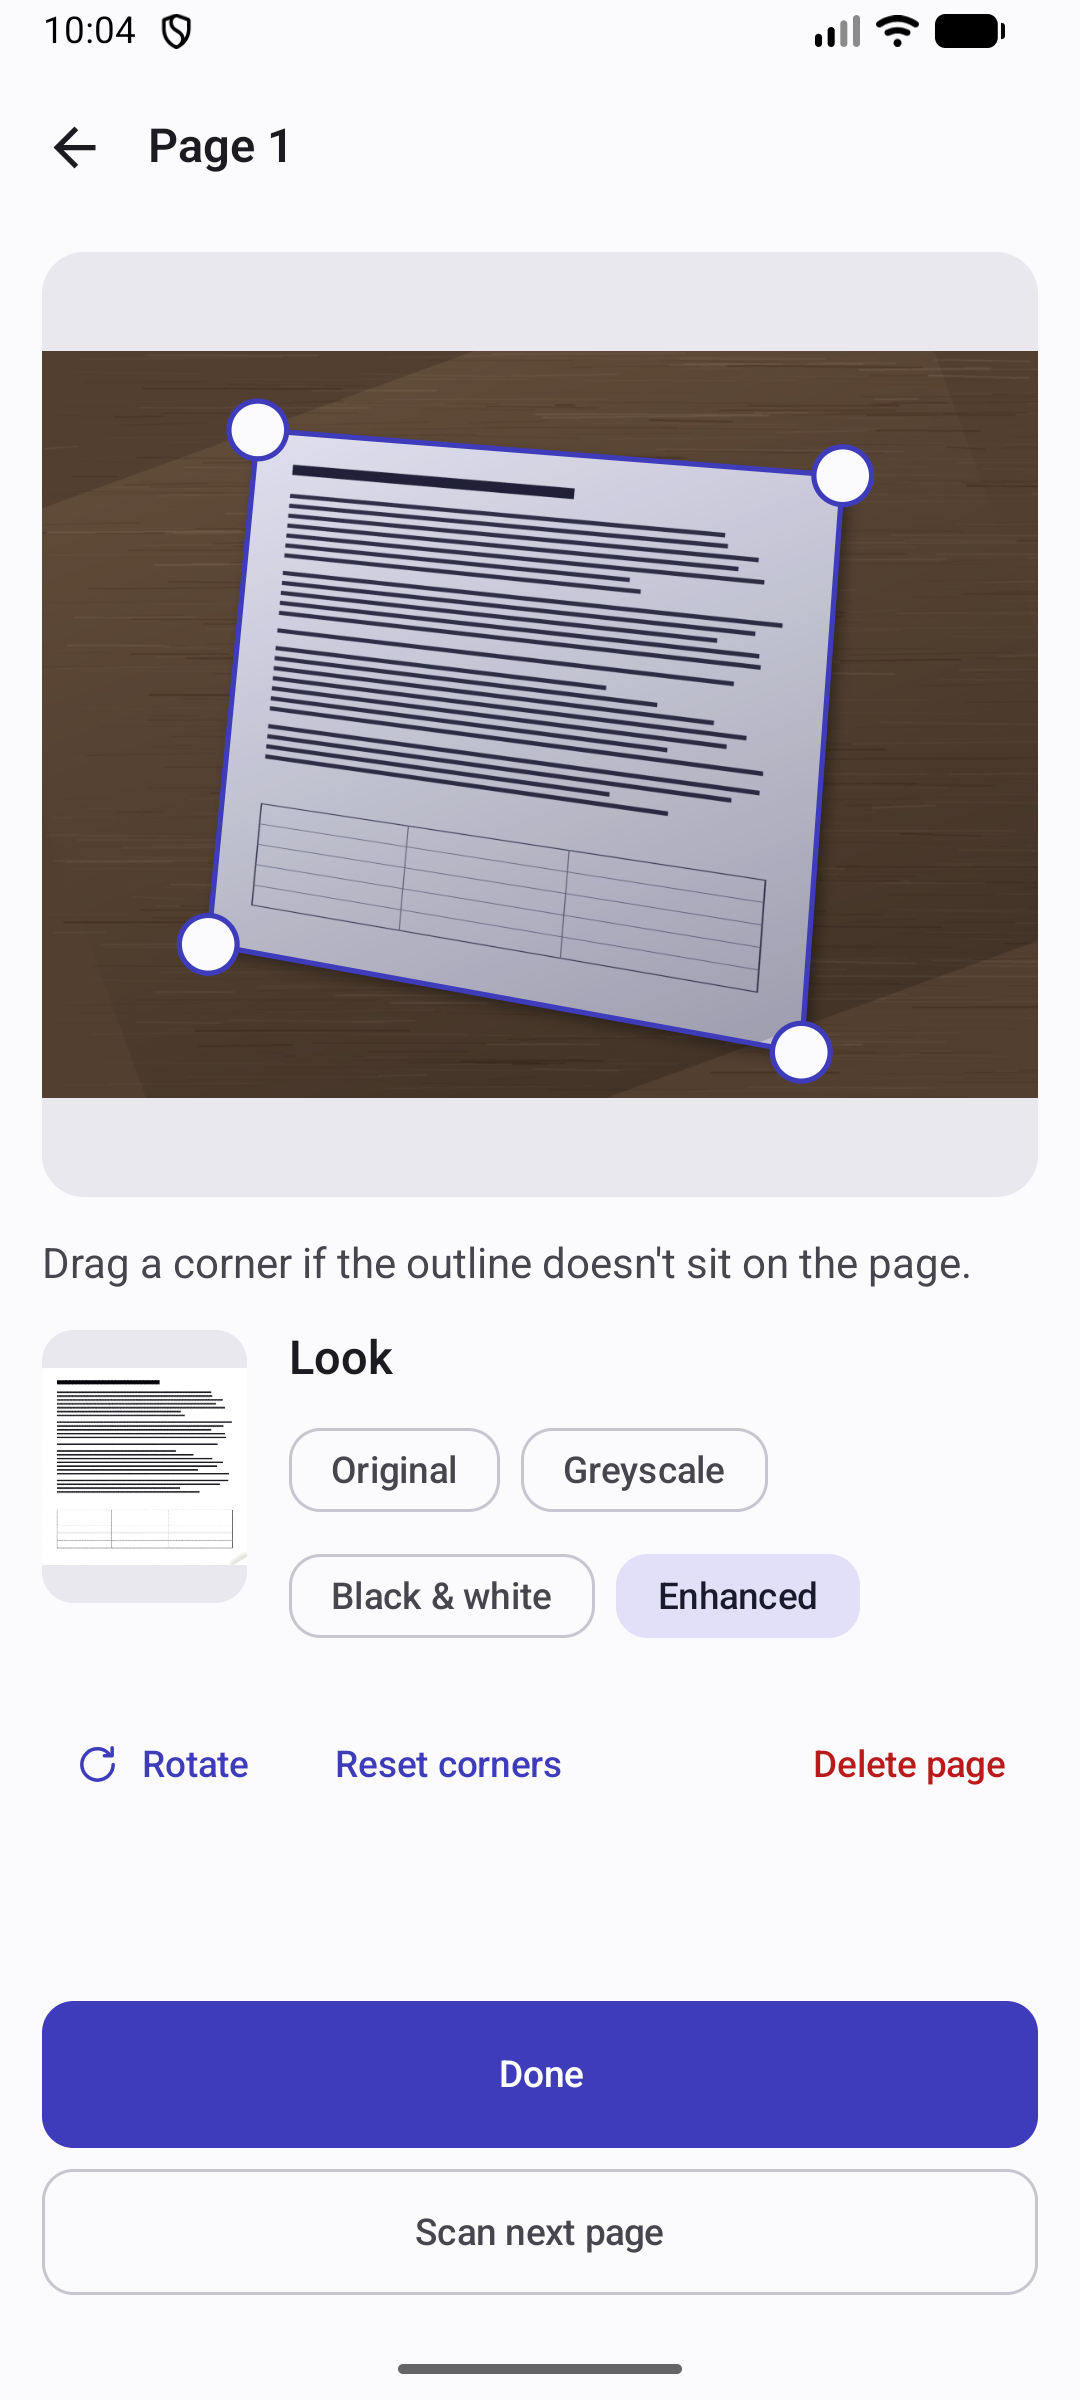
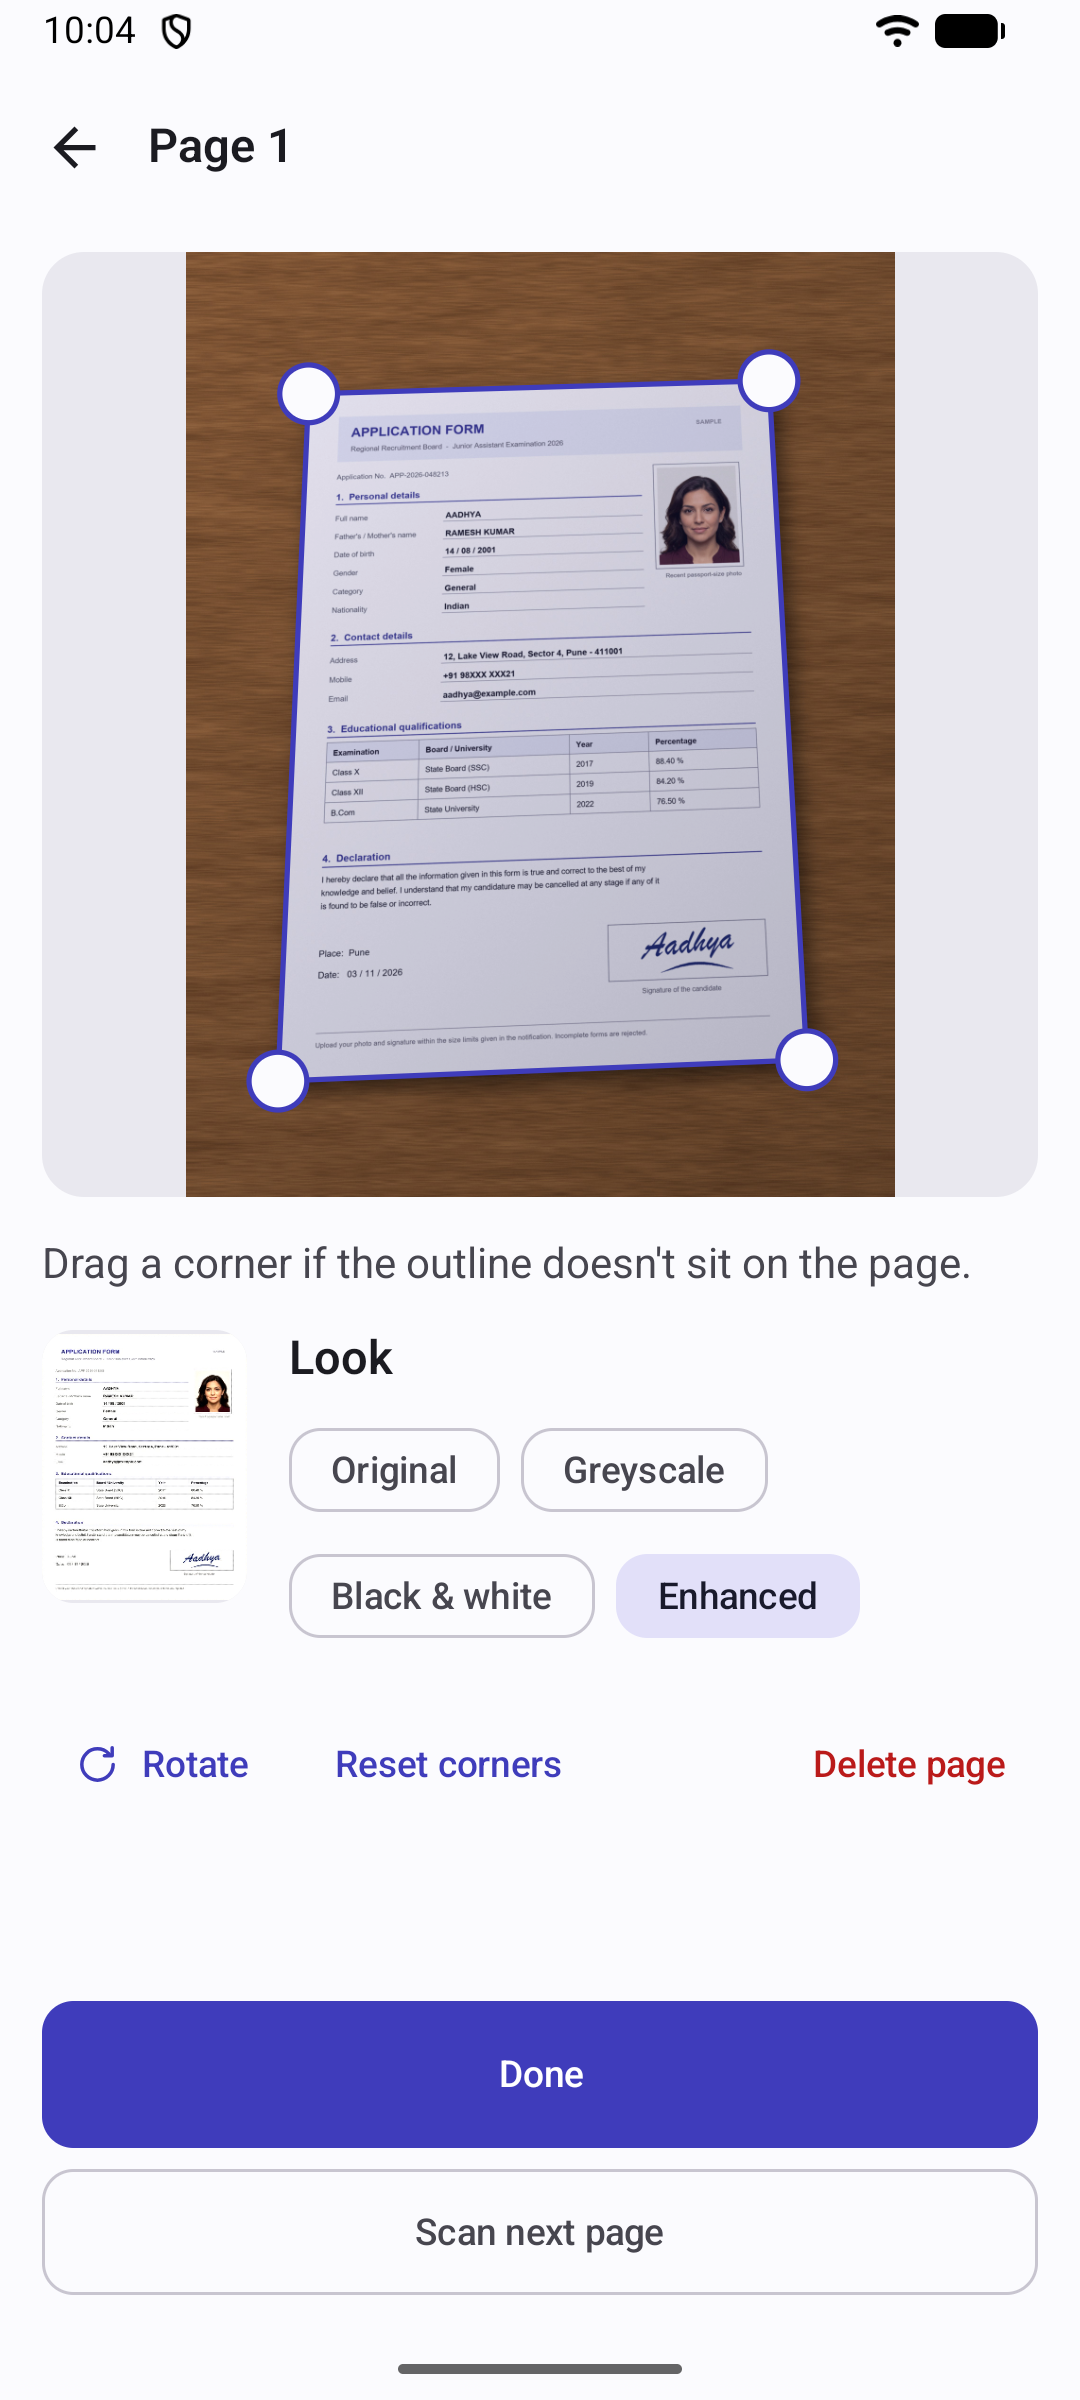
Retake store screenshots 4-7 with invented content
The signature screenshot showed what looked like a real signature, and
the scan and PDF screenshots used plain dummy pages. Now:

- 4: the Gemini portrait from screenshots 2-3, background removed
- 5: "Aadhya" in pen on ruled paper, lifted to 19 KB on white
- 6: a fictional application form for "Aadhya" photographed on a desk,
  edges found, Enhanced look
- 7: that form as a real text PDF, 299 KB down to 34 KB with the text
  still sharp

Every name, address and signature is made up; store-listing.md says so.

Changed region(s): [[0.0306, 0.0938, 0.9778, 0.5], [0.0306, 0.5625, 0.2139, 0.6562], [0.7639, 0.0, 0.7944, 0.0312]]

diff --git a/docs/store-listing.md b/docs/store-listing.md
@@ -96,15 +96,22 @@ indigo and white.
 
 Captured versions of all eight are in `docs/screenshots/`.
 
-The face in screenshot 4 is "Smiling in a cornfield" by Allef Vinicius, from Unsplash by way of
-Wikimedia Commons, under CC0: no copyright, and no named person whose likeness the listing would be
-trading on. Any replacement needs both of those, not only a free licence — a store listing is
-advertising, which is where a photo of a recognisable person causes trouble even when the photograph
-itself is free to use.
+Everything shown in screenshots 2–7 (retaken November 2026) is invented for FormKit:
 
-Screenshots 2 and 3 show a portrait the owner generated with Gemini for FormKit (November 2026),
-cropped to drop Gemini's corner mark: an AI image of nobody real, which no one else holds rights in.
-They replaced captures that used NASA's official
-portrait of Kalpana Chawla: public domain as a photograph, but a famous person's face selling an app.
-Characters from films or comics (Iron Man and the like) are worse still — the character itself is
-copyrighted and trademarked, whoever took the picture.
+- **The face** (2, 3, 4, and the photo on the form in 6 and 7) is a portrait the owner generated
+  with Gemini, cropped to drop Gemini's corner mark: an AI image of nobody real, which no one else
+  holds rights in.
+- **The signature** (5, and on the form) reads "Aadhya", after the owner's developer name, AADHYA
+  TECH. It's drawn with Windows' Brush Script face plus a pen stroke and photographed onto ruled
+  notebook paper in code — nobody's real signature.
+- **The form** (6, 7) is a fictional application form — invented board, an applicant called
+  Aadhya, an `example.com` email and a masked phone number — written as a real text PDF so Compress
+  PDF can show its text staying sharp. Screenshot 6 is the same page composited onto a desk at an
+  angle.
+
+Any replacement needs the same two things, not only a free licence: no copyright held by someone
+else, and nobody recognisable. A store listing is advertising, which is where a famous face causes
+trouble even when the photograph itself is free — the first captures used NASA's public-domain
+portrait of Kalpana Chawla and were replaced for that reason. Characters from films or comics (Iron
+Man and the like) are worse still: the character itself is copyrighted and trademarked, whoever took
+the picture. And never use a real person's signature.
